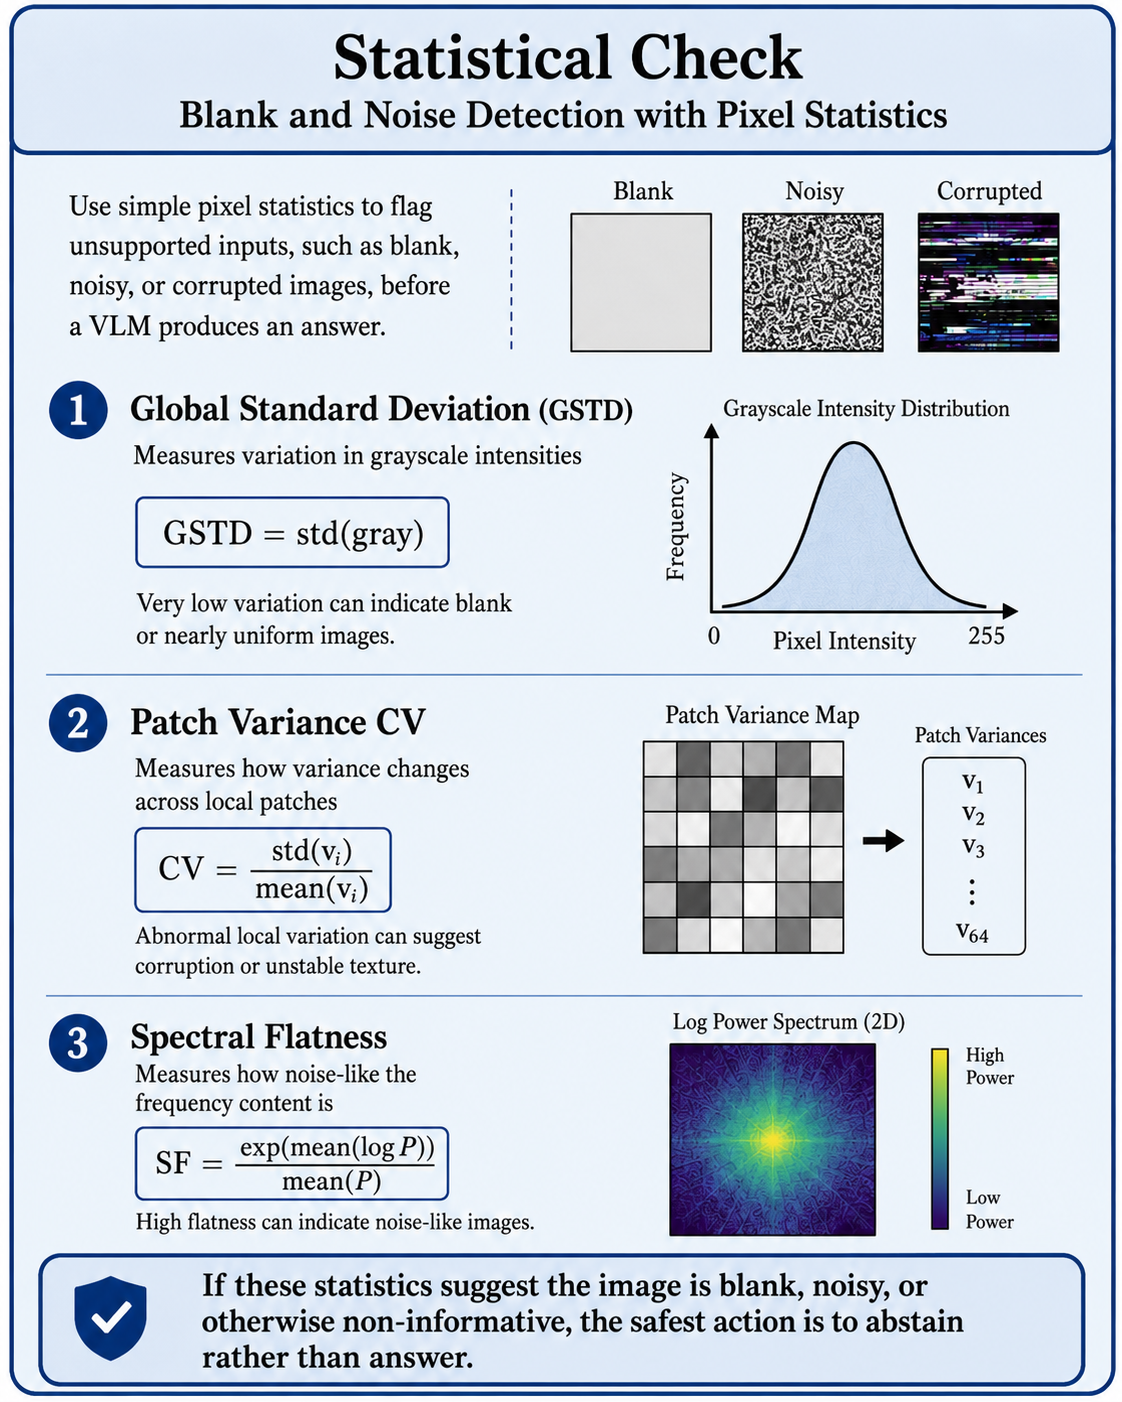
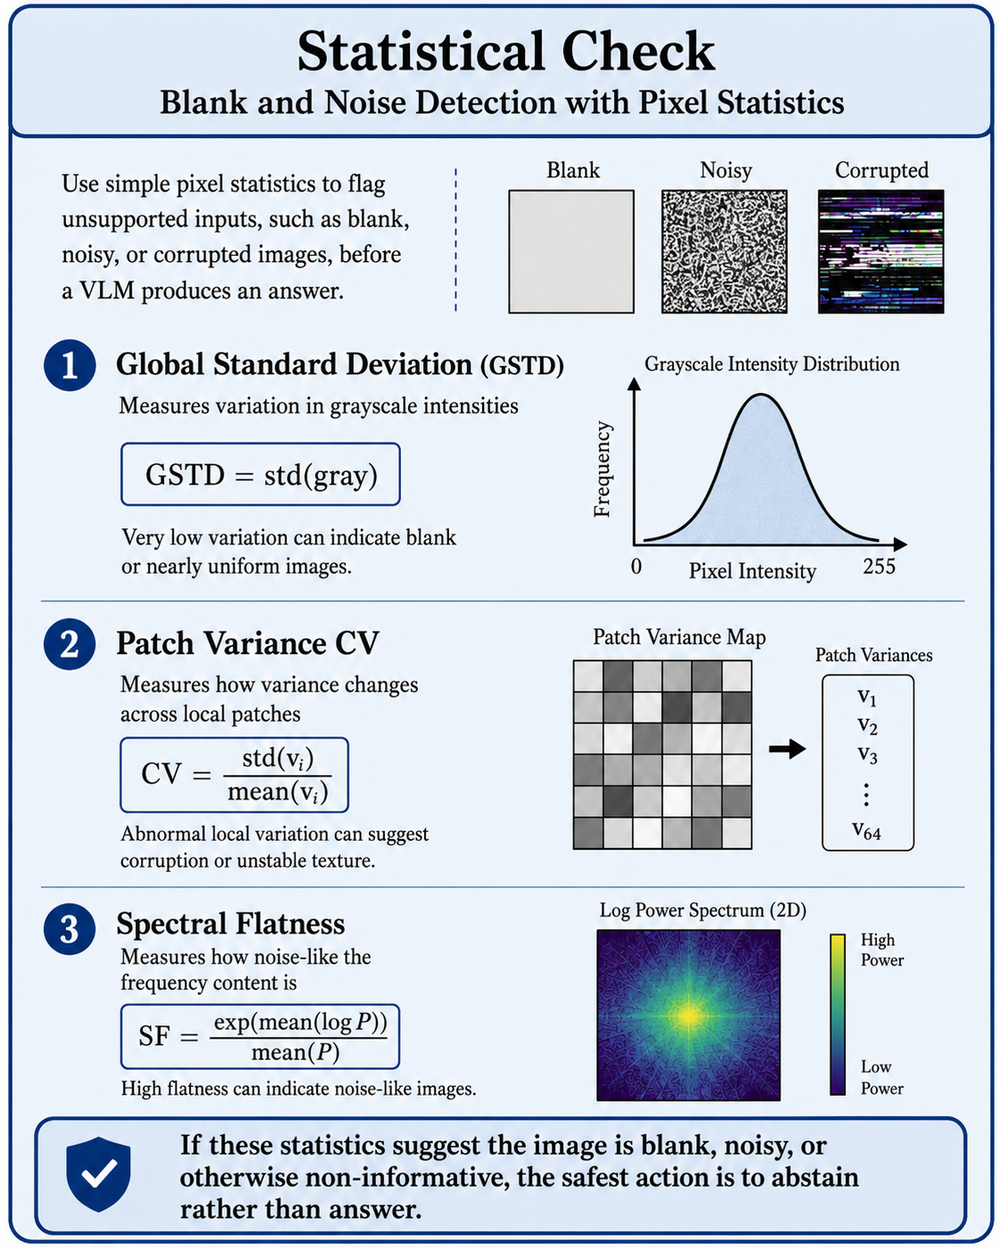
Improve image loading: WebP variants, lazy load, fade-in on complete.
Resize figures for display, add WebP sources (~50–130KB vs ~1MB PNGs),
lazy-load below-fold images, and hide until fully decoded to avoid partial paint.

Changed region(s): [[0.682, 0.2186, 0.744, 0.2498]]

diff --git a/index.html b/index.html
@@ -40,7 +40,10 @@
       <p>Instead, the response may be based on the text of the question, on regularities in the training data, or on other unsupported model priors.</p>
       <p>The key issue is not simply whether the answer is correct or incorrect, but whether the model confidently asserts something that is not grounded in the visual evidence.</p>
       <figure class="post-figure">
-        <img src="stop.png" alt="Illustration of a VLM mirage: confident answer without visual support">
+        <picture>
+          <source srcset="stop.webp" type="image/webp">
+          <img src="stop.png" alt="Illustration of a VLM mirage: confident answer without visual support" width="1440" height="810" decoding="async">
+        </picture>
         <figcaption>A mirage occurs when a VLM gives a confident answer that is not supported by the visual evidence.</figcaption>
       </figure>
     </section>
@@ -73,7 +76,10 @@
       <p>In other words, is this image unrelated, noisy, or blank? In such cases, the safest course of action would be for the model to refuse to answer rather than hallucinate a fluent but unsupported response [Detect Before You Leap, arXiv 2026].</p>
       <p>At the most basic level, this can be achieved by using heuristics to detect uninformative images: applying deterministic statistics over pixels to identify low-contrast, unusually uniform, patchy, or noisy images as unsupported [Detect Before You Leap, arXiv 2026].</p>
       <figure class="post-figure post-figure--medium">
-        <img src="stat.png" alt="Pixel-level statistics for detecting uninformative images">
+        <picture>
+          <source srcset="stat.webp" type="image/webp">
+          <img src="stat.png" alt="Pixel-level statistics for detecting uninformative images" width="1000" height="1249" loading="lazy" decoding="async">
+        </picture>
         <figcaption>Simple pixel-level statistics can help flag blank, noisy, or non-informative images before a VLM produces an answer.</figcaption>
       </figure>
       <p>Beyond these simple image-level heuristics, can we determine whether the image is actually related to the question?</p>
@@ -83,7 +89,10 @@
       <p>The intuition is that if the image actually contains evidence for the question, patches containing relevant visual content should become more aligned, in embedding space, with the question in later vision layers.</p>
       <p>Ultimately, if the image is unrelated to the question, image patches should generally show lower, flatter, or less stable alignment across vision layers [Detect Before You Leap, arXiv 2026].</p>
       <figure class="post-figure post-figure--medium">
-        <img src="layer.png" alt="Layer-wise patch-text alignment across vision encoder layers">
+        <picture>
+          <source srcset="layer.webp" type="image/webp">
+          <img src="layer.png" alt="Layer-wise patch-text alignment across vision encoder layers" width="1000" height="1249" loading="lazy" decoding="async">
+        </picture>
         <figcaption>Conceptual illustration inspired by TC-LIA. The curves are illustrative and intended to show the intuition behind layer-wise patch-text alignment.</figcaption>
       </figure>
     </section>

diff --git a/script.js b/script.js
@@ -1,1 +1,10 @@
-// Mirages blog — static v1. No runtime behavior required yet.
+document.querySelectorAll(".post-figure img").forEach((img) => {
+  const reveal = () => img.classList.add("is-loaded");
+
+  if (img.complete && img.naturalWidth > 0) {
+    reveal();
+  } else {
+    img.addEventListener("load", reveal, { once: true });
+    img.addEventListener("error", reveal, { once: true });
+  }
+});

diff --git a/styles.css b/styles.css
@@ -171,7 +171,13 @@ a:hover {
   border-radius: 8px;
   display: block;
   height: auto;
+  opacity: 0;
+  transition: opacity 0.5s ease;
   width: 100%;
+}
+
+.post-figure img.is-loaded {
+  opacity: 1;
 }
 
 .post-figure figcaption {